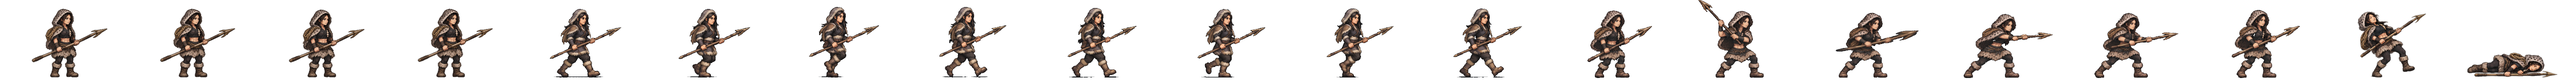
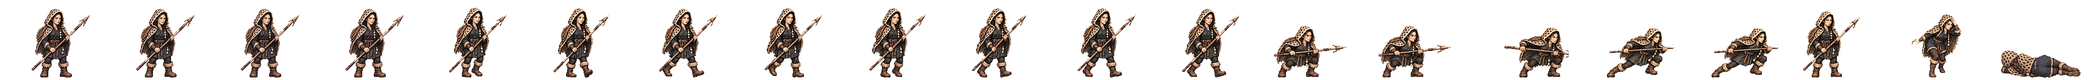
북옥저 물범 · 사로 물새 새 전투 띠를 게임에 (그림 API만 · 창 · 새 찌르기 · 맞음 네 칸 · 개성 동작) · 달래 · 누리는 걷기 다리 교대를 못 가려 보류
Claude-Session: https://claude.ai/code/session_01TRiuN7s6aDfSnaHxrkctmU

Changed region(s): [[0.4688, 0.125, 1.0, 0.9688], [0.0, 0.0938, 0.4375, 0.9688], [0.6562, 0.0625, 0.6875, 0.0938]]

diff --git a/src/realm/data/spritePx.ts b/src/realm/data/spritePx.ts
@@ -1,3 +1,3 @@
 /** public/realm/anim-px/manifest.json 의 사본 — tools/sprite-normalize.mjs 가 만든다 (손으로 고치지 말 것). 칸 [가로, 세로] · feet = 발 줄(칸 위에서 y) · bodyPx = 서 있는 몸 키 */
 import { expandManifest } from './sprite-manifest.ts'
-export const SPRITE_PX: Readonly<Record<string, { readonly cell: readonly [number, number]; readonly feet: number; readonly bodyPx: number; readonly kind: 'general' | 'soldier' | 'folk' | 'crowd'; readonly cells: number }>> = expandManifest<{ readonly cell: readonly [number, number]; readonly feet: number; readonly bodyPx: number; readonly kind: 'general' | 'soldier' | 'folk' | 'crowd'; readonly cells: number }>([{"cell":[166,128],"feet":126,"bodyPx":124,"kind":"soldier","cells":20},{"cell":[116,128],"feet":126,"bodyPx":117,"kind":"soldier","cells":20},{"cell":[127,128],"feet":126,"bodyPx":116,"kind":"soldier","cells":20},{"cell":[269,128],"feet":126,"bodyPx":126,"kind":"soldier","cells":20},{"cell":[503,128],"feet":126,"bodyPx":127,"kind":"soldier","cells":20},{"cell":[614,128],"feet":126,"bodyPx":126,"kind":"soldier","cells":20},{"cell":[200,160],"feet":156,"bodyPx":138,"kind":"general","cells":20},{"cell":[208,160],"feet":155,"bodyPx":138,"kind":"general","cells":20},{"cell":[208,160],"feet":154,"bodyPx":138,"kind":"general","cells":20},{"cell":[304,160],"feet":155,"bodyPx":135,"kind":"general","cells":20},{"cell":[184,160],"feet":156,"bodyPx":138,"kind":"general","cells":20},{"cell":[208,160],"feet":154,"bodyPx":136,"kind":"general","cells":20},{"cell":[232,160],"feet":156,"bodyPx":138,"kind":"general","cells":20},{"cell":[208,160],"feet":156,"bodyPx":138,"kind":"general","cells":20},{"cell":[168,160],"feet":156,"bodyPx":124,"kind":"general","cells":20},{"cell":[216,160],"feet":156,"bodyPx":130,"kind":"general","cells":20},{"cell":[200,160],"feet":156,"bodyPx":116,"kind":"general","cells":20},{"cell":[192,160],"feet":156,"bodyPx":138,"kind":"general","cells":20},{"cell":[200,160],"feet":156,"bodyPx":135,"kind":"general","cells":20},{"cell":[280,160],"feet":156,"bodyPx":138,"kind":"general","cells":20},{"cell":[232,160],"feet":156,"bodyPx":134,"kind":"general","cells":20},{"cell":[144,160],"feet":156,"bodyPx":70,"kind":"general","cells":20},{"cell":[208,160],"feet":156,"bodyPx":70,"kind":"general","cells":20},{"cell":[192,160],"feet":156,"bodyPx":70,"kind":"general","cells":20},{"cell":[240,160],"feet":155,"bodyPx":138,"kind":"general","cells":20},{"cell":[160,160],"feet":156,"bodyPx":135,"kind":"general","cells":20},{"cell":[192,160],"feet":156,"bodyPx":128,"kind":"general","cells":20},{"cell":[224,160],"feet":155,"bodyPx":138,"kind":"general","cells":20},{"cell":[216,160],"feet":156,"bodyPx":138,"kind":"general","cells":20},{"cell":[208,160],"feet":156,"bodyPx":134,"kind":"general","cells":20},{"cell":[176,160],"feet":156,"bodyPx":130,"kind":"general","cells":20},{"cell":[248,160],"feet":156,"bodyPx":138,"kind":"general","cells":20},{"cell":[248,160],"feet":155,"bodyPx":138,"kind":"general","cells":20},{"cell":[192,160],"feet":155,"bodyPx":138,"kind":"general","cells":20},{"cell":[192,160],"feet":156,"bodyPx":124,"kind":"general","cells":20},{"cell":[208,160],"feet":154,"bodyPx":131,"kind":"general","cells":20},{"cell":[256,160],"feet":156,"bodyPx":138,"kind":"general","cells":20},{"cell":[240,160],"feet":156,"bodyPx":138,"kind":"general","cells":20},{"cell":[232,160],"feet":156,"bodyPx":139,"kind":"general","cells":20},{"cell":[232,160],"feet":156,"bodyPx":73,"kind":"general","cells":20},{"cell":[256,160],"feet":155,"bodyPx":138,"kind":"general","cells":20},{"cell":[264,160],"feet":156,"bodyPx":138,"kind":"general","cells":20},{"cell":[224,160],"feet":156,"bodyPx":138,"kind":"general","cells":20},{"cell":[224,160],"feet":156,"bodyPx":128,"kind":"general","cells":20},{"cell":[176,160],"feet":156,"bodyPx":129,"kind":"general","cells":20},{"cell":[208,160],"feet":154,"bodyPx":139,"kind":"general","cells":20},{"cell":[232,160],"feet":155,"bodyPx":138,"kind":"general","cells":20},{"cell":[208,160],"feet":156,"bodyPx":132,"kind":"general","cells":20},{"cell":[208,160],"feet":154,"bodyPx":137,"kind":"general","cells":20},{"cell":[184,160],"feet":156,"bodyPx":122,"kind":"general","cells":20},{"cell":[176,160],"feet":156,"bodyPx":138,"kind":"general","cells":20},{"cell":[280,160],"feet":155,"bodyPx":133,"kind":"general","cells":20},{"cell":[176,160],"feet":156,"bodyPx":70,"kind":"general","cells":20},{"cell":[186,128],"feet":126,"bodyPx":127,"kind":"soldier","cells":20},{"cell":[298,128],"feet":126,"bodyPx":126,"kind":"soldier","cells":20},{"cell":[82,128],"feet":126,"bodyPx":114,"kind":"folk","cells":8},{"cell":[134,128],"feet":126,"bodyPx":119,"kind":"soldier","cells":20},{"cell":[380,128],"feet":126,"bodyPx":124,"kind":"soldier","cells":20},{"cell":[114,128],"feet":126,"bodyPx":115,"kind":"soldier","cells":20},{"cell":[122,128],"feet":126,"bodyPx":114,"kind":"soldier","cells":20},{"cell":[254,128],"feet":126,"bodyPx":128,"kind":"soldier","cells":20},{"cell":[438,128],"feet":126,"bodyPx":126,"kind":"soldier","cells":20},{"cell":[88,128],"feet":126,"bodyPx":113,"kind":"folk","cells":8},{"cell":[100,128],"feet":126,"bodyPx":115,"kind":"folk","cells":8},{"cell":[108,128],"feet":126,"bodyPx":115,"kind":"folk","cells":8},{"cell":[63,128],"feet":126,"bodyPx":113,"kind":"folk","cells":8},{"cell":[69,96],"feet":96,"bodyPx":96,"kind":"crowd","cells":1},{"cell":[54,96],"feet":96,"bodyPx":96,"kind":"crowd","cells":1},{"cell":[47,96],"feet":96,"bodyPx":96,"kind":"crowd","cells":1},{"cell":[49,96],"feet":96,"bodyPx":96,"kind":"crowd","cells":1},{"cell":[57,96],"feet":96,"bodyPx":96,"kind":"crowd","cells":1},{"cell":[55,96],"feet":96,"bodyPx":96,"kind":"crowd","cells":1},{"cell":[45,96],"feet":96,"bodyPx":96,"kind":"crowd","cells":1},{"cell":[53,96],"feet":96,"bodyPx":96,"kind":"crowd","cells":1},{"cell":[64,96],"feet":96,"bodyPx":96,"kind":"crowd","cells":1},{"cell":[184,160],"feet":156,"bodyPx":124,"kind":"general","cells":20},{"cell":[184,160],"feet":156,"bodyPx":134,"kind":"general","cells":20},{"cell":[224,160],"feet":156,"bodyPx":133,"kind":"general","cells":20},{"cell":[192,160],"feet":156,"bodyPx":135,"kind":"general","cells":20},{"cell":[184,160],"feet":156,"bodyPx":137,"kind":"general","cells":20},{"cell":[216,160],"feet":156,"bodyPx":134,"kind":"general","cells":20},{"cell":[216,160],"feet":156,"bodyPx":132,"kind":"general","cells":20},{"cell":[288,160],"feet":156,"bodyPx":138,"kind":"general","cells":20},{"cell":[192,160],"feet":156,"bodyPx":118,"kind":"general","cells":20},{"cell":[208,160],"feet":154,"bodyPx":134,"kind":"general","cells":20},{"cell":[208,160],"feet":154,"bodyPx":128,"kind":"general","cells":20},{"cell":[240,160],"feet":156,"bodyPx":128,"kind":"general","cells":20},{"cell":[184,160],"feet":156,"bodyPx":132,"kind":"general","cells":20},{"cell":[208,160],"feet":156,"bodyPx":123,"kind":"general","cells":20},{"cell":[176,160],"feet":156,"bodyPx":116,"kind":"general","cells":20},{"cell":[272,160],"feet":156,"bodyPx":138,"kind":"general","cells":20},{"cell":[176,160],"feet":156,"bodyPx":122,"kind":"general","cells":20},{"cell":[232,160],"feet":156,"bodyPx":127,"kind":"general","cells":20},{"cell":[168,160],"feet":156,"bodyPx":138,"kind":"general","cells":20},{"cell":[176,160],"feet":156,"bodyPx":137,"kind":"general","cells":20},{"cell":[184,160],"feet":156,"bodyPx":133,"kind":"general","cells":20}],[["axe",0],["bandit-chief",1],["bandit-club",2],["boat",3],["bow",4],["crossbow",5],["gen-adogan",6],["gen-alpyeong",7],["gen-ara",8],["gen-areum",8],["gen-aryeong",9],["gen-bakdal",6],["gen-baram",8],["gen-bdanbi",10],["gen-beom",11],["gen-beombal",8],["gen-beomi",8],["gen-bira",12],["gen-biryu",13],["gen-budeul",8],["gen-byeol",8],["gen-daemusin",14],["gen-daeso",15],["gen-dallae2",10],["gen-dalli",8],["gen-damul",16],["gen-danbi",8],["gen-dangung",17],["gen-darae",18],["gen-dokmudeom",7],["gen-duman",19],["gen-eomni",8],["gen-eureum",20],["gen-g-bow",21],["gen-g-spear",22],["gen-g-sword",23],["gen-gaennae",6],["gen-gamsil",24],["gen-gaon",25],["gen-geota",13],["gen-geumbawi",10],["gen-geumha",26],["gen-goeun",13],["gen-gom",27],["gen-gomok",13],["gen-gureum",8],["gen-guryema",17],["gen-gwaeyu",12],["gen-haebi",8],["gen-haedal",6],["gen-haesol",8],["gen-halla",7],["gen-heo",8],["gen-hneoul",10],["gen-hogong",28],["gen-hojin",13],["gen-horselord",29],["gen-hwalmi",30],["gen-hyeokgeose",17],["gen-hyeopbo",6],["gen-irang",8],["gen-jibaekho",31],["gen-jinha",32],["gen-jita",33],["gen-jumong",34],["gen-keundol",7],["gen-maehwa",35],["gen-maenun",17],["gen-malgalgi",36],["gen-mari",37],["gen-maro",31],["gen-maryeo",13],["gen-mdallae",38],["gen-mir",6],["gen-mount",39],["gen-mulbeom",40],["gen-mulsae",28],["gen-musoe",28],["gen-noeul",8],["gen-nuri",41],["gen-ocheongan",42],["gen-odi",8],["gen-odogan",6],["gen-ogan",17],["gen-oi",43],["gen-olddaeso",20],["gen-onjo",44],["gen-pidogan",13],["gen-sagong",45],["gen-sdallae",6],["gen-sincheongan",28],["gen-singwigan",28],["gen-sinneoul",8],["gen-sobeol",46],["gen-soebi",6],["gen-soebo",47],["gen-soenun",45],["gen-sogeumbi",48],["gen-songbi",42],["gen-songyang",49],["gen-sori",50],["gen-soseono",51],["gen-suro",17],["gen-tahae",6],["gen-tneoul",8],["gen-w-bow",21],["gen-w-spear",52],["gen-waechief",13],["gen-wan",28],["gen-yeodogan",13],["gen-yucheongan",13],["gen-yusugan",31],["horse",53],["marine",54],["migrant",55],["militia",56],["pike",57],["pirate-captain",58],["pirate-sword",59],["shield",60],["spear",61],["villager-builder",62],["villager-farmer",63],["villager-porter",64],["villager-woman",65],["crowd-b1",66],["crowd-b2",67],["crowd-b3",68],["crowd-b4",69],["crowd-b5",70],["crowd-b6",71],["crowd-f1",66],["crowd-f2",71],["crowd-f3",72],["crowd-f4",73],["crowd-f5",66],["crowd-f6",74],["gen-dalbit",13],["gen-base-g-07-drunk-warrior",17],["gen-base-g-40-anya-adan",13],["gen-base-w-13-young-archer",8],["gen-base-g-03-sea-trader",37],["gen-base-w-10-pirate-captain",45],["gen-base-w-64-miri-dallae",45],["gen-base-g-41-goja-bau",37],["gen-base-g-42-dokro-garam",41],["gen-base-g-09-farmer-conscript",28],["gen-base-w-02-goguryeo-lady",28],["gen-base-w-17-mahan-pearl-diver",8],["gen-base-g-17-saro-isageum",47],["gen-base-g-18-daegaya-king",75],["gen-base-g-35-dabeol-dalgu",13],["gen-base-g-19-sabeol-veteran",28],["gen-base-w-23-usisan-whale-queen",8],["gen-base-g-36-gammun-gamdol",42],["gen-base-g-20-samul-sea-lord",36],["gen-base-g-37-eumjeup-jeup",10],["gen-base-g-38-chopal-palmae",17],["gen-base-w-75-daegaya-soemoe",17],["gen-base-g-45-dabeol-deulgae",10],["gen-base-g-04-jinhan-giant",13],["gen-base-g-08-veteran",13],["gen-base-w-18-jinhan-salt-widow",8],["gen-base-w-12-court-dancer",76],["gen-base-w-83-gyeonji-beodeul",77],["gen-base-w-05-baekje-queen",78],["gen-base-w-21-baekje-court-dancer",10],["gen-base-g-01-master-smith",79],["gen-base-g-93-jomun-solgae",30],["gen-base-g-57-bihwa-neup",37],["gen-base-w-72-eumjeup-beol",8],["gen-base-w-102-garak-dana",45],["gen-base-g-68-baekje-onnuri",13],["gen-base-w-27-mokji-jinha",6],["gen-base-g-22-ungcheon-gomnae",6],["gen-base-g-23-sangdang-soedal",13],["gen-base-g-24-wansan-onsan",6],["gen-base-g-25-balla-keunmoe",28],["gen-base-g-61-heomcheuk-bawi",28],["gen-base-g-88-wander-soeul",42],["gen-base-w-14-feast-spy",6],["gen-base-g-12-silla-youth",80],["gen-base-w-08-mahan-warrior",8],["gen-base-g-62-beonye-hanul",37],["gen-base-g-63-heomcheuk-beogeum",13],["gen-base-g-84-wander-seoneul",13],["gen-base-w-50-siljik-mulga",28],["gen-base-g-46-uga-nureongso",28],["gen-base-w-80-usan-gangchi",45],["gen-base-g-47-guga-sanyanggae",28],["gen-base-w-76-gampyeong-baetsagong",8],["gen-base-g-05-mahan-chieftain",81],["gen-base-g-58-usan-uhae",13],["gen-base-g-27-maek-maekdol",13],["gen-base-w-53-hwanna-gabi",45],["gen-base-w-29-golpo-janmul",31],["gen-base-g-53-baekje-haeru",6],["gen-base-w-71-yeonna-neoul",8],["gen-base-w-79-yangmaek-solmae",8],["gen-base-w-34-chopal-deulme",8],["gen-base-g-44-maga-malgup",82],["gen-base-w-31-dabeol-dalbit",45],["gen-base-g-51-biryuna-mulgyeol",42],["gen-base-g-48-gwanna-musoe",13],["gen-base-g-32-uga-sodu",12],["gen-base-g-49-goguryeo-sona",83],["gen-base-g-30-gwanna-soemoe",42],["gen-base-g-52-tamna-oreum",10],["gen-base-g-29-yeonna-myeongsol",34],["gen-base-w-56-dongokjeo-sogeum",84],["gen-base-g-54-mokji-mahan",12],["gen-base-g-33-jeoga-metdol",17],["gen-base-w-36-baekje-maena",8],["gen-base-w-38-sangdang-bulmae",6],["gen-base-w-39-gosaburi-galmae",8],["gen-base-w-40-mujin-munui",47],["gen-base-w-41-hwanna-beodeul",85],["gen-base-w-43-uga-nuri",36],["gen-base-w-45-tamna-oreumbi",10],["gen-base-g-60-golbeol-golgae",10],["gen-base-g-61-apdok-ap",28],["gen-base-g-62-gammun-gamnamu",6],["gen-base-g-63-chopal-yeoul",31],["gen-base-g-64-michuhol-sogeumkkun",37],["gen-base-g-65-sangdang-soemangchi",42],["gen-base-g-66-geonma-malbalgup",86],["gen-base-g-67-gosaburi-buri",87],["gen-base-g-68-mujin-bitgoeul",10],["gen-base-g-69-goryong-yong",42],["gen-base-g-70-siljik-pado",37],["gen-base-w-81-byeokjin-byeolbit",8],["gen-base-w-46-geonma-maru",8],["gen-base-w-48-mujin-mudeung",8],["gen-base-g-26-gampyeong-gaetbeol",12],["gen-base-g-60-eupcha-hangyeol",88],["gen-base-g-15-shaman-man",28],["gen-base-g-85-wander-ure",31],["gen-base-g-43-hwanna-amnok",13],["gen-base-g-50-bullae-gwaha",78],["gen-base-g-55-saro-bakdal",13],["gen-base-g-56-haseulla-gwahama",6],["gen-base-w-06-buyeo-huntress",48],["gen-base-w-22-dongye-tiger-huntress",8],["gen-base-w-25-bihwa-priestess",28],["gen-base-w-24-apdok-queen",10],["gen-base-w-61-iseo-sinae",13],["gen-base-w-26-iseo-tomboy-general",8],["gen-base-g-59-yangmaek-maekson",89],["gen-aw1-haebi",42],["gen-aw1-soseono",90],["gen-aw1-gamsil",10],["gen-aw1-mir",50],["gen-aw1-dangung",6],["gen-aw1-ara",42],["gen-aw1-jumong",91],["gen-aw1-onjo",92],["gen-aw1-base-w-83-gyeonji-beodeul",17],["gen-aw1-heo",41],["gen-aw1-base-g-38-chopal-palmae",6],["gen-aw1-base-w-25-bihwa-priestess",76],["gen-aw1-sori",93],["gen-aw1-gomok",6],["gen-aw1-irang",17],["gen-aw1-budeul",93],["gen-aw1-gom",37],["gen-aw1-sdallae",6],["gen-aw1-base-w-13-young-archer",6],["gen-aw1-base-w-36-baekje-maena",94],["gen-aw1-base-g-09-farmer-conscript",41],["gen-aw1-base-w-02-goguryeo-lady",95],["gen-aw1-haedal",10],["gen-aw1-hogong",6],["gen-aw1-maehwa",50],["gen-aw1-base-w-06-buyeo-huntress",12],["gen-aw1-base-w-08-mahan-warrior",42],["gen-aw1-base-w-29-golpo-janmul",42],["gen-aw1-base-w-31-dabeol-dalbit",17],["gen-aw1-base-w-38-sangdang-bulmae",93],["gen-aw1-bira",28],["gen-aw1-base-w-53-hwanna-gabi",93],["gen-aw1-base-w-56-dongokjeo-sogeum",50],["gen-aw1-base-w-72-eumjeup-beol",17],["gen-aw1-bdanbi",93],["gen-aw1-beom",10],["gen-aw1-beombal",10],["gen-aw1-byeol",17],["gen-aw1-dalli",50],["gen-aw1-malgalgi",31],["gen-aw1-sincheongan",28]])
+export const SPRITE_PX: Readonly<Record<string, { readonly cell: readonly [number, number]; readonly feet: number; readonly bodyPx: number; readonly kind: 'general' | 'soldier' | 'folk' | 'crowd'; readonly cells: number }>> = expandManifest<{ readonly cell: readonly [number, number]; readonly feet: number; readonly bodyPx: number; readonly kind: 'general' | 'soldier' | 'folk' | 'crowd'; readonly cells: number }>([{"cell":[166,128],"feet":126,"bodyPx":124,"kind":"soldier","cells":20},{"cell":[116,128],"feet":126,"bodyPx":117,"kind":"soldier","cells":20},{"cell":[127,128],"feet":126,"bodyPx":116,"kind":"soldier","cells":20},{"cell":[269,128],"feet":126,"bodyPx":126,"kind":"soldier","cells":20},{"cell":[503,128],"feet":126,"bodyPx":127,"kind":"soldier","cells":20},{"cell":[614,128],"feet":126,"bodyPx":126,"kind":"soldier","cells":20},{"cell":[200,160],"feet":156,"bodyPx":138,"kind":"general","cells":20},{"cell":[208,160],"feet":155,"bodyPx":138,"kind":"general","cells":20},{"cell":[208,160],"feet":154,"bodyPx":138,"kind":"general","cells":20},{"cell":[304,160],"feet":155,"bodyPx":135,"kind":"general","cells":20},{"cell":[184,160],"feet":156,"bodyPx":138,"kind":"general","cells":20},{"cell":[208,160],"feet":154,"bodyPx":136,"kind":"general","cells":20},{"cell":[232,160],"feet":156,"bodyPx":138,"kind":"general","cells":20},{"cell":[208,160],"feet":156,"bodyPx":138,"kind":"general","cells":20},{"cell":[168,160],"feet":156,"bodyPx":124,"kind":"general","cells":20},{"cell":[216,160],"feet":156,"bodyPx":130,"kind":"general","cells":20},{"cell":[200,160],"feet":156,"bodyPx":116,"kind":"general","cells":20},{"cell":[192,160],"feet":156,"bodyPx":138,"kind":"general","cells":20},{"cell":[200,160],"feet":156,"bodyPx":135,"kind":"general","cells":20},{"cell":[280,160],"feet":156,"bodyPx":138,"kind":"general","cells":20},{"cell":[232,160],"feet":156,"bodyPx":134,"kind":"general","cells":20},{"cell":[144,160],"feet":156,"bodyPx":70,"kind":"general","cells":20},{"cell":[208,160],"feet":156,"bodyPx":70,"kind":"general","cells":20},{"cell":[192,160],"feet":156,"bodyPx":70,"kind":"general","cells":20},{"cell":[240,160],"feet":155,"bodyPx":138,"kind":"general","cells":20},{"cell":[160,160],"feet":156,"bodyPx":135,"kind":"general","cells":20},{"cell":[192,160],"feet":156,"bodyPx":128,"kind":"general","cells":20},{"cell":[224,160],"feet":155,"bodyPx":138,"kind":"general","cells":20},{"cell":[216,160],"feet":156,"bodyPx":138,"kind":"general","cells":20},{"cell":[208,160],"feet":156,"bodyPx":134,"kind":"general","cells":20},{"cell":[176,160],"feet":156,"bodyPx":130,"kind":"general","cells":20},{"cell":[248,160],"feet":156,"bodyPx":138,"kind":"general","cells":20},{"cell":[248,160],"feet":155,"bodyPx":138,"kind":"general","cells":20},{"cell":[192,160],"feet":155,"bodyPx":138,"kind":"general","cells":20},{"cell":[192,160],"feet":156,"bodyPx":124,"kind":"general","cells":20},{"cell":[208,160],"feet":154,"bodyPx":131,"kind":"general","cells":20},{"cell":[256,160],"feet":156,"bodyPx":138,"kind":"general","cells":20},{"cell":[240,160],"feet":156,"bodyPx":138,"kind":"general","cells":20},{"cell":[232,160],"feet":156,"bodyPx":139,"kind":"general","cells":20},{"cell":[232,160],"feet":156,"bodyPx":73,"kind":"general","cells":20},{"cell":[208,160],"feet":154,"bodyPx":137,"kind":"general","cells":20},{"cell":[264,160],"feet":156,"bodyPx":138,"kind":"general","cells":20},{"cell":[224,160],"feet":156,"bodyPx":138,"kind":"general","cells":20},{"cell":[224,160],"feet":156,"bodyPx":128,"kind":"general","cells":20},{"cell":[176,160],"feet":156,"bodyPx":129,"kind":"general","cells":20},{"cell":[208,160],"feet":154,"bodyPx":139,"kind":"general","cells":20},{"cell":[232,160],"feet":155,"bodyPx":138,"kind":"general","cells":20},{"cell":[208,160],"feet":156,"bodyPx":132,"kind":"general","cells":20},{"cell":[184,160],"feet":156,"bodyPx":122,"kind":"general","cells":20},{"cell":[176,160],"feet":156,"bodyPx":138,"kind":"general","cells":20},{"cell":[280,160],"feet":155,"bodyPx":133,"kind":"general","cells":20},{"cell":[176,160],"feet":156,"bodyPx":70,"kind":"general","cells":20},{"cell":[186,128],"feet":126,"bodyPx":127,"kind":"soldier","cells":20},{"cell":[298,128],"feet":126,"bodyPx":126,"kind":"soldier","cells":20},{"cell":[82,128],"feet":126,"bodyPx":114,"kind":"folk","cells":8},{"cell":[134,128],"feet":126,"bodyPx":119,"kind":"soldier","cells":20},{"cell":[380,128],"feet":126,"bodyPx":124,"kind":"soldier","cells":20},{"cell":[114,128],"feet":126,"bodyPx":115,"kind":"soldier","cells":20},{"cell":[122,128],"feet":126,"bodyPx":114,"kind":"soldier","cells":20},{"cell":[254,128],"feet":126,"bodyPx":128,"kind":"soldier","cells":20},{"cell":[438,128],"feet":126,"bodyPx":126,"kind":"soldier","cells":20},{"cell":[88,128],"feet":126,"bodyPx":113,"kind":"folk","cells":8},{"cell":[100,128],"feet":126,"bodyPx":115,"kind":"folk","cells":8},{"cell":[108,128],"feet":126,"bodyPx":115,"kind":"folk","cells":8},{"cell":[63,128],"feet":126,"bodyPx":113,"kind":"folk","cells":8},{"cell":[69,96],"feet":96,"bodyPx":96,"kind":"crowd","cells":1},{"cell":[54,96],"feet":96,"bodyPx":96,"kind":"crowd","cells":1},{"cell":[47,96],"feet":96,"bodyPx":96,"kind":"crowd","cells":1},{"cell":[49,96],"feet":96,"bodyPx":96,"kind":"crowd","cells":1},{"cell":[57,96],"feet":96,"bodyPx":96,"kind":"crowd","cells":1},{"cell":[55,96],"feet":96,"bodyPx":96,"kind":"crowd","cells":1},{"cell":[45,96],"feet":96,"bodyPx":96,"kind":"crowd","cells":1},{"cell":[53,96],"feet":96,"bodyPx":96,"kind":"crowd","cells":1},{"cell":[64,96],"feet":96,"bodyPx":96,"kind":"crowd","cells":1},{"cell":[184,160],"feet":156,"bodyPx":124,"kind":"general","cells":20},{"cell":[184,160],"feet":156,"bodyPx":134,"kind":"general","cells":20},{"cell":[224,160],"feet":156,"bodyPx":133,"kind":"general","cells":20},{"cell":[192,160],"feet":156,"bodyPx":135,"kind":"general","cells":20},{"cell":[184,160],"feet":156,"bodyPx":137,"kind":"general","cells":20},{"cell":[216,160],"feet":156,"bodyPx":134,"kind":"general","cells":20},{"cell":[216,160],"feet":156,"bodyPx":132,"kind":"general","cells":20},{"cell":[288,160],"feet":156,"bodyPx":138,"kind":"general","cells":20},{"cell":[192,160],"feet":156,"bodyPx":118,"kind":"general","cells":20},{"cell":[208,160],"feet":154,"bodyPx":134,"kind":"general","cells":20},{"cell":[208,160],"feet":154,"bodyPx":128,"kind":"general","cells":20},{"cell":[240,160],"feet":156,"bodyPx":128,"kind":"general","cells":20},{"cell":[184,160],"feet":156,"bodyPx":132,"kind":"general","cells":20},{"cell":[208,160],"feet":156,"bodyPx":123,"kind":"general","cells":20},{"cell":[176,160],"feet":156,"bodyPx":116,"kind":"general","cells":20},{"cell":[272,160],"feet":156,"bodyPx":138,"kind":"general","cells":20},{"cell":[176,160],"feet":156,"bodyPx":122,"kind":"general","cells":20},{"cell":[232,160],"feet":156,"bodyPx":127,"kind":"general","cells":20},{"cell":[168,160],"feet":156,"bodyPx":138,"kind":"general","cells":20},{"cell":[176,160],"feet":156,"bodyPx":137,"kind":"general","cells":20},{"cell":[184,160],"feet":156,"bodyPx":133,"kind":"general","cells":20}],[["axe",0],["bandit-chief",1],["bandit-club",2],["boat",3],["bow",4],["crossbow",5],["gen-adogan",6],["gen-alpyeong",7],["gen-ara",8],["gen-areum",8],["gen-aryeong",9],["gen-bakdal",6],["gen-baram",8],["gen-bdanbi",10],["gen-beom",11],["gen-beombal",8],["gen-beomi",8],["gen-bira",12],["gen-biryu",13],["gen-budeul",8],["gen-byeol",8],["gen-daemusin",14],["gen-daeso",15],["gen-dallae2",10],["gen-dalli",8],["gen-damul",16],["gen-danbi",8],["gen-dangung",17],["gen-darae",18],["gen-dokmudeom",7],["gen-duman",19],["gen-eomni",8],["gen-eureum",20],["gen-g-bow",21],["gen-g-spear",22],["gen-g-sword",23],["gen-gaennae",6],["gen-gamsil",24],["gen-gaon",25],["gen-geota",13],["gen-geumbawi",10],["gen-geumha",26],["gen-goeun",13],["gen-gom",27],["gen-gomok",13],["gen-gureum",8],["gen-guryema",17],["gen-gwaeyu",12],["gen-haebi",8],["gen-haedal",6],["gen-haesol",8],["gen-halla",7],["gen-heo",8],["gen-hneoul",10],["gen-hogong",28],["gen-hojin",13],["gen-horselord",29],["gen-hwalmi",30],["gen-hyeokgeose",17],["gen-hyeopbo",6],["gen-irang",8],["gen-jibaekho",31],["gen-jinha",32],["gen-jita",33],["gen-jumong",34],["gen-keundol",7],["gen-maehwa",35],["gen-maenun",17],["gen-malgalgi",36],["gen-mari",37],["gen-maro",31],["gen-maryeo",13],["gen-mdallae",38],["gen-mir",6],["gen-mount",39],["gen-mulbeom",40],["gen-mulsae",40],["gen-musoe",28],["gen-noeul",8],["gen-nuri",41],["gen-ocheongan",42],["gen-odi",8],["gen-odogan",6],["gen-ogan",17],["gen-oi",43],["gen-olddaeso",20],["gen-onjo",44],["gen-pidogan",13],["gen-sagong",45],["gen-sdallae",6],["gen-sincheongan",28],["gen-singwigan",28],["gen-sinneoul",8],["gen-sobeol",46],["gen-soebi",6],["gen-soebo",47],["gen-soenun",45],["gen-sogeumbi",40],["gen-songbi",42],["gen-songyang",48],["gen-sori",49],["gen-soseono",50],["gen-suro",17],["gen-tahae",6],["gen-tneoul",8],["gen-w-bow",21],["gen-w-spear",51],["gen-waechief",13],["gen-wan",28],["gen-yeodogan",13],["gen-yucheongan",13],["gen-yusugan",31],["horse",52],["marine",53],["migrant",54],["militia",55],["pike",56],["pirate-captain",57],["pirate-sword",58],["shield",59],["spear",60],["villager-builder",61],["villager-farmer",62],["villager-porter",63],["villager-woman",64],["crowd-b1",65],["crowd-b2",66],["crowd-b3",67],["crowd-b4",68],["crowd-b5",69],["crowd-b6",70],["crowd-f1",65],["crowd-f2",70],["crowd-f3",71],["crowd-f4",72],["crowd-f5",65],["crowd-f6",73],["gen-dalbit",13],["gen-base-g-07-drunk-warrior",17],["gen-base-g-40-anya-adan",13],["gen-base-w-13-young-archer",8],["gen-base-g-03-sea-trader",37],["gen-base-w-10-pirate-captain",45],["gen-base-w-64-miri-dallae",45],["gen-base-g-41-goja-bau",37],["gen-base-g-42-dokro-garam",41],["gen-base-g-09-farmer-conscript",28],["gen-base-w-02-goguryeo-lady",28],["gen-base-w-17-mahan-pearl-diver",8],["gen-base-g-17-saro-isageum",47],["gen-base-g-18-daegaya-king",74],["gen-base-g-35-dabeol-dalgu",13],["gen-base-g-19-sabeol-veteran",28],["gen-base-w-23-usisan-whale-queen",8],["gen-base-g-36-gammun-gamdol",42],["gen-base-g-20-samul-sea-lord",36],["gen-base-g-37-eumjeup-jeup",10],["gen-base-g-38-chopal-palmae",17],["gen-base-w-75-daegaya-soemoe",17],["gen-base-g-45-dabeol-deulgae",10],["gen-base-g-04-jinhan-giant",13],["gen-base-g-08-veteran",13],["gen-base-w-18-jinhan-salt-widow",8],["gen-base-w-12-court-dancer",75],["gen-base-w-83-gyeonji-beodeul",76],["gen-base-w-05-baekje-queen",77],["gen-base-w-21-baekje-court-dancer",10],["gen-base-g-01-master-smith",78],["gen-base-g-93-jomun-solgae",30],["gen-base-g-57-bihwa-neup",37],["gen-base-w-72-eumjeup-beol",8],["gen-base-w-102-garak-dana",45],["gen-base-g-68-baekje-onnuri",13],["gen-base-w-27-mokji-jinha",6],["gen-base-g-22-ungcheon-gomnae",6],["gen-base-g-23-sangdang-soedal",13],["gen-base-g-24-wansan-onsan",6],["gen-base-g-25-balla-keunmoe",28],["gen-base-g-61-heomcheuk-bawi",28],["gen-base-g-88-wander-soeul",42],["gen-base-w-14-feast-spy",6],["gen-base-g-12-silla-youth",79],["gen-base-w-08-mahan-warrior",8],["gen-base-g-62-beonye-hanul",37],["gen-base-g-63-heomcheuk-beogeum",13],["gen-base-g-84-wander-seoneul",13],["gen-base-w-50-siljik-mulga",28],["gen-base-g-46-uga-nureongso",28],["gen-base-w-80-usan-gangchi",45],["gen-base-g-47-guga-sanyanggae",28],["gen-base-w-76-gampyeong-baetsagong",8],["gen-base-g-05-mahan-chieftain",80],["gen-base-g-58-usan-uhae",13],["gen-base-g-27-maek-maekdol",13],["gen-base-w-53-hwanna-gabi",45],["gen-base-w-29-golpo-janmul",31],["gen-base-g-53-baekje-haeru",6],["gen-base-w-71-yeonna-neoul",8],["gen-base-w-79-yangmaek-solmae",8],["gen-base-w-34-chopal-deulme",8],["gen-base-g-44-maga-malgup",81],["gen-base-w-31-dabeol-dalbit",45],["gen-base-g-51-biryuna-mulgyeol",42],["gen-base-g-48-gwanna-musoe",13],["gen-base-g-32-uga-sodu",12],["gen-base-g-49-goguryeo-sona",82],["gen-base-g-30-gwanna-soemoe",42],["gen-base-g-52-tamna-oreum",10],["gen-base-g-29-yeonna-myeongsol",34],["gen-base-w-56-dongokjeo-sogeum",83],["gen-base-g-54-mokji-mahan",12],["gen-base-g-33-jeoga-metdol",17],["gen-base-w-36-baekje-maena",8],["gen-base-w-38-sangdang-bulmae",6],["gen-base-w-39-gosaburi-galmae",8],["gen-base-w-40-mujin-munui",47],["gen-base-w-41-hwanna-beodeul",84],["gen-base-w-43-uga-nuri",36],["gen-base-w-45-tamna-oreumbi",10],["gen-base-g-60-golbeol-golgae",10],["gen-base-g-61-apdok-ap",28],["gen-base-g-62-gammun-gamnamu",6],["gen-base-g-63-chopal-yeoul",31],["gen-base-g-64-michuhol-sogeumkkun",37],["gen-base-g-65-sangdang-soemangchi",42],["gen-base-g-66-geonma-malbalgup",85],["gen-base-g-67-gosaburi-buri",86],["gen-base-g-68-mujin-bitgoeul",10],["gen-base-g-69-goryong-yong",42],["gen-base-g-70-siljik-pado",37],["gen-base-w-81-byeokjin-byeolbit",8],["gen-base-w-46-geonma-maru",8],["gen-base-w-48-mujin-mudeung",8],["gen-base-g-26-gampyeong-gaetbeol",12],["gen-base-g-60-eupcha-hangyeol",87],["gen-base-g-15-shaman-man",28],["gen-base-g-85-wander-ure",31],["gen-base-g-43-hwanna-amnok",13],["gen-base-g-50-bullae-gwaha",77],["gen-base-g-55-saro-bakdal",13],["gen-base-g-56-haseulla-gwahama",6],["gen-base-w-06-buyeo-huntress",40],["gen-base-w-22-dongye-tiger-huntress",8],["gen-base-w-25-bihwa-priestess",28],["gen-base-w-24-apdok-queen",10],["gen-base-w-61-iseo-sinae",13],["gen-base-w-26-iseo-tomboy-general",8],["gen-base-g-59-yangmaek-maekson",88],["gen-aw1-haebi",42],["gen-aw1-soseono",89],["gen-aw1-gamsil",10],["gen-aw1-mir",49],["gen-aw1-dangung",6],["gen-aw1-ara",42],["gen-aw1-jumong",90],["gen-aw1-onjo",91],["gen-aw1-base-w-83-gyeonji-beodeul",17],["gen-aw1-heo",41],["gen-aw1-base-g-38-chopal-palmae",6],["gen-aw1-base-w-25-bihwa-priestess",75],["gen-aw1-sori",92],["gen-aw1-gomok",6],["gen-aw1-irang",17],["gen-aw1-budeul",92],["gen-aw1-gom",37],["gen-aw1-sdallae",6],["gen-aw1-base-w-13-young-archer",6],["gen-aw1-base-w-36-baekje-maena",93],["gen-aw1-base-g-09-farmer-conscript",41],["gen-aw1-base-w-02-goguryeo-lady",94],["gen-aw1-haedal",10],["gen-aw1-hogong",6],["gen-aw1-maehwa",49],["gen-aw1-base-w-06-buyeo-huntress",12],["gen-aw1-base-w-08-mahan-warrior",42],["gen-aw1-base-w-29-golpo-janmul",42],["gen-aw1-base-w-31-dabeol-dalbit",17],["gen-aw1-base-w-38-sangdang-bulmae",92],["gen-aw1-bira",28],["gen-aw1-base-w-53-hwanna-gabi",92],["gen-aw1-base-w-56-dongokjeo-sogeum",49],["gen-aw1-base-w-72-eumjeup-beol",17],["gen-aw1-bdanbi",92],["gen-aw1-beom",10],["gen-aw1-beombal",10],["gen-aw1-byeol",17],["gen-aw1-dalli",49],["gen-aw1-malgalgi",31],["gen-aw1-sincheongan",28]])

diff --git a/src/duel/view.ts b/src/duel/view.ts
@@ -100,7 +100,7 @@ const crowdFront = [1, 2, 3, 4, 5, 6].map((i) => img(`realm/duel/crowd/b${i}.png
 const crowdReady = (set: HTMLImageElement[]): boolean => set.every((im) => im.complete && im.naturalWidth > 0)
 const pxMode = cfg.px !== false && params.get('px') !== '0'
 /** 겨루기 전용 옛 띠(duel/sprites) 대신 열전과 같은 도트 띠(anim-px)를 쓰는 장수 — 두 판에서 같은 모습 · 서기 계획·쓰러지는 칸도 같다 (11-23 범 · 매화 · 달빛 · 11-24 해비 · 아룸) */
-const PX_DUEL: ReadonlySet<string> = new Set(['beom', 'maehwa', 'base-w-31-dabeol-dalbit', 'haebi', 'areum', 'base-w-13-young-archer', 'base-w-10-pirate-captain', 'base-w-17-mahan-pearl-diver', 'base-w-06-buyeo-huntress', 'base-w-64-miri-dallae', 'ara', 'base-w-22-dongye-tiger-huntress', 'noeul', 'sagong', 'sinneoul', 'heo', 'base-w-08-mahan-warrior', 'base-w-23-usisan-whale-queen', 'base-w-26-iseo-tomboy-general', 'base-w-72-eumjeup-beol', 'tneoul', 'odi', 'base-w-76-gampyeong-baetsagong', 'base-w-34-chopal-deulme', 'base-w-102-garak-dana', 'base-w-36-baekje-maena', 'base-w-56-dongokjeo-sogeum', 'budeul', 'base-w-53-hwanna-gabi', 'base-w-18-jinhan-salt-widow', 'beombal', 'irang', 'sogeumbi', 'baram', 'byeol', 'base-w-71-yeonna-neoul', 'base-w-39-gosaburi-galmae', 'base-w-41-hwanna-beodeul', 'base-w-79-yangmaek-solmae', 'base-w-46-geonma-maru', 'base-w-48-mujin-mudeung', 'base-w-80-usan-gangchi', 'base-w-81-byeokjin-byeolbit', 'beomi', 'danbi', 'dalli', 'gureum', 'haesol', 'soenun', 'eomni'])
+const PX_DUEL: ReadonlySet<string> = new Set(['beom', 'maehwa', 'base-w-31-dabeol-dalbit', 'haebi', 'areum', 'base-w-13-young-archer', 'base-w-10-pirate-captain', 'base-w-17-mahan-pearl-diver', 'base-w-06-buyeo-huntress', 'base-w-64-miri-dallae', 'ara', 'base-w-22-dongye-tiger-huntress', 'noeul', 'sagong', 'sinneoul', 'heo', 'base-w-08-mahan-warrior', 'base-w-23-usisan-whale-queen', 'base-w-26-iseo-tomboy-general', 'base-w-72-eumjeup-beol', 'tneoul', 'odi', 'base-w-76-gampyeong-baetsagong', 'base-w-34-chopal-deulme', 'base-w-102-garak-dana', 'base-w-36-baekje-maena', 'base-w-56-dongokjeo-sogeum', 'budeul', 'base-w-53-hwanna-gabi', 'base-w-18-jinhan-salt-widow', 'beombal', 'irang', 'sogeumbi', 'baram', 'byeol', 'base-w-71-yeonna-neoul', 'base-w-39-gosaburi-galmae', 'base-w-41-hwanna-beodeul', 'base-w-79-yangmaek-solmae', 'base-w-46-geonma-maru', 'base-w-48-mujin-mudeung', 'base-w-80-usan-gangchi', 'base-w-81-byeokjin-byeolbit', 'beomi', 'danbi', 'dalli', 'gureum', 'haesol', 'soenun', 'eomni', 'mulbeom', 'mulsae'])
 /** 띠 그림 — 기본은 anim-px(도트 규격) 먼저, 없으면 옛 띠로 (img 의 onerror 가 갈아 끼운다) */
 const strip = (s: string): HTMLImageElement => pxMode
   ? DUEL_ATLASES[s] !== undefined && !PX_DUEL.has(s) ? img(`realm/duel/sprites/gen-${s}.png`, `realm/anim-px/gen-${s}.png`)

diff --git a/src/tune/params.ts b/src/tune/params.ts
@@ -1469,6 +1469,8 @@ export const HAEBI_IDLE = {
     haesol: { cells: 38, base: [0, 1], hold: 2.4, fall: [18, 20, 21, 19], quirk: [22, 23, 24, 25], quirkTimes: [.3, .32, .4, .28], attack: { cells: [26, 27, 28, 29, 30, 31, 32, 33], times: [.09, .08, .11, .12, .12, .08, .08, .12], hit: 3 }, hurt: [34, 35], rise: [36, 37], xGeom: { h: 224, root: 92, foot: 216 } },
     soenun: { cells: 38, base: [0, 1], hold: 2.4, fall: [18, 20, 21, 19], quirk: [22, 23, 24, 25], quirkTimes: [.3, .32, .4, .28], attack: { cells: [26, 27, 28, 29, 30, 31, 32, 33], times: [.09, .08, .11, .12, .12, .08, .08, .12], hit: 3 }, hurt: [34, 35], rise: [36, 37], xGeom: { h: 224, root: 92, foot: 216 } },
     eomni: { cells: 38, base: [0, 1], hold: 2.4, fall: [18, 20, 21, 19], quirk: [22, 23, 24, 25], quirkTimes: [.3, .32, .4, .28], attack: { cells: [26, 27, 28, 29, 30, 31, 32, 33], times: [.09, .08, .11, .12, .12, .08, .08, .12], hit: 3 }, hurt: [34, 35], rise: [36, 37], xGeom: { h: 224, root: 92, foot: 216 } },
+    mulbeom: { cells: 38, base: [0, 1], hold: 2.4, fall: [18, 20, 21, 19], quirk: [22, 23, 24, 25], quirkTimes: [.3, .32, .4, .28], attack: { cells: [26, 27, 28, 29, 30, 31, 32, 33], times: [.09, .08, .11, .12, .12, .08, .08, .12], hit: 3 }, hurt: [34, 35], rise: [36, 37], xGeom: { h: 224, root: 92, foot: 216 } },
+    mulsae: { cells: 38, base: [0, 1], hold: 2.4, fall: [18, 20, 21, 19], quirk: [22, 23, 24, 25], quirkTimes: [.3, .32, .4, .28], attack: { cells: [26, 27, 28, 29, 30, 31, 32, 33], times: [.09, .08, .11, .12, .12, .08, .08, .12], hit: 3 }, hurt: [34, 35], rise: [36, 37], xGeom: { h: 224, root: 92, foot: 216 } },
   },
 } as const
 export const HAEBI_ANIM = {

diff --git a/src/raid/hero-hd.ts b/src/raid/hero-hd.ts
@@ -37,7 +37,6 @@ export const HERO_HD: Readonly<Record<string, string>> = {
   'anim-px/gen-base-w-02-goguryeo-lady.png': 'anim-px/gen-base-w-02-goguryeo-lady_hd.png',
   'anim-px/gen-aw1-base-w-06-buyeo-huntress.png': 'anim-px/gen-aw1-base-w-06-buyeo-huntress_hd.png',
   'anim-px/gen-aw1-base-w-02-goguryeo-lady.png': 'anim-px/gen-aw1-base-w-02-goguryeo-lady_hd.png',
-  'anim-px/gen-mulsae.png': 'anim-px/gen-mulsae_hd.png',
   'anim-px/gen-maenun.png': 'anim-px/gen-maenun_hd.png',
   'anim-px/gen-jumong.png': 'anim-px/gen-jumong_hd.png',
   'anim-px/gen-dangung.png': 'anim-px/gen-dangung_hd.png',

diff --git a/tools/sprite-kit/anim-harness.py b/tools/sprite-kit/anim-harness.py
@@ -87,6 +87,10 @@ HEROES = {
     'gureum': dict(hit=True, strip='gen-gureum', atk='thrust', src='thrust2', actw=264, refoot=True, atk8=True, act=True, legacy=(('a', 2), ('a', 3), ('b', 3), ('b', 4)), cells8=[('a', 1), ('a', 2), ('a', 3), ('a', 4), ('a', 4), ('a', 4), ('b', 3), ('b', 4)]),   # 고룡 구름(창 · 가슴 M) · 여덟째 묶음
     'haesol': dict(hit=True, strip='gen-haesol', atk='thrust', src='thrust2', actw=264, refoot=True, atk8=True, act=True, legacy=(('a', 2), ('a', 3), ('b', 3), ('b', 4)), cells8=[('a', 1), ('a', 2), ('a', 3), ('a', 4), ('a', 4), ('a', 4), ('b', 3), ('b', 4)]),   # 우시산 해솔(가는 창 · 가슴 M) · 여덟째 묶음
     'soenun': dict(hit=True, strip='gen-soenun', atk='thrust', src='thrust2', actw=264, refoot=True, atk8=True, act=True, legacy=(('a', 2), ('a', 3), ('b', 3), ('b', 4)), cells8=[('a', 1), ('a', 2), ('a', 3), ('a', 4), ('a', 4), ('a', 4), ('b', 3), ('b', 4)]),   # 관나 쇠눈(비늘 갑옷 · 창) · 여덟째 묶음
+    'mdallae': dict(hit=True, strip='gen-mdallae', atk='thrust', src='thrust2', actw=264, refoot=True, atk8=True, act=True, legacy=(('b', 3), ('b', 1), ('b', 2), ('b', 4)), cells8=[('b', 4), ('b', 3), ('b', 3), ('b', 1), ('b', 1), ('b', 2), ('b', 3), ('b', 4)]),   # 목지 달래 · 열째 묶음(API)
+    'mulbeom': dict(hit=True, strip='gen-mulbeom', atk='thrust', src='thrust2', actw=264, refoot=True, atk8=True, act=True, legacy=(('a', 2), ('a', 3), ('b', 3), ('b', 4)), cells8=[('a', 1), ('a', 2), ('a', 3), ('a', 4), ('a', 4), ('a', 4), ('b', 3), ('b', 4)]),   # 북옥저 물범(작살) · 열째 묶음(API)
+    'mulsae': dict(hit=True, strip='gen-mulsae', atk='thrust', src='thrust2', actw=264, refoot=True, atk8=True, act=True, legacy=(('a', 2), ('a', 3), ('b', 3), ('b', 4)), cells8=[('a', 1), ('a', 2), ('a', 3), ('a', 4), ('a', 4), ('a', 4), ('b', 3), ('b', 4)]),   # 사로 물새 · 열째 묶음(API)
+    'nuri': dict(hit=True, strip='gen-nuri', atk='thrust', src='thrust2', actw=264, refoot=True, atk8=True, act=True, legacy=(('a', 2), ('a', 3), ('b', 3), ('b', 4)), cells8=[('a', 1), ('a', 2), ('a', 3), ('a', 4), ('a', 4), ('a', 4), ('b', 3), ('b', 4)]),   # 구가 누리 · 열째 묶음(API)
     'haebi': dict(hit=True, strip='gen-haebi', atk='chop', atk8=True, act=True),   # act = 공격 여덟 칸이 넓은 동작 칸(240×224 · 뿌리 92 · 발 줄 216)
     'areum': dict(hit=True, strip='gen-areum', atk='slam', atk8=True, act=True, lock='none'),   # 받은 그림 그대로(얼굴을 떠다 붙이지 않는다 — 11-24: 뭉친 얼굴이 여덟 칸에 퍼졌다) · 옛 lock='face': 메가 머리 뒤로 지나간다 — 머리 상자는 메를 자르고(「포스터」), 윗몸을 통째로 묶으면 떠다닌다(11-24 형) → 얼굴 안쪽만 묶는다
 }
